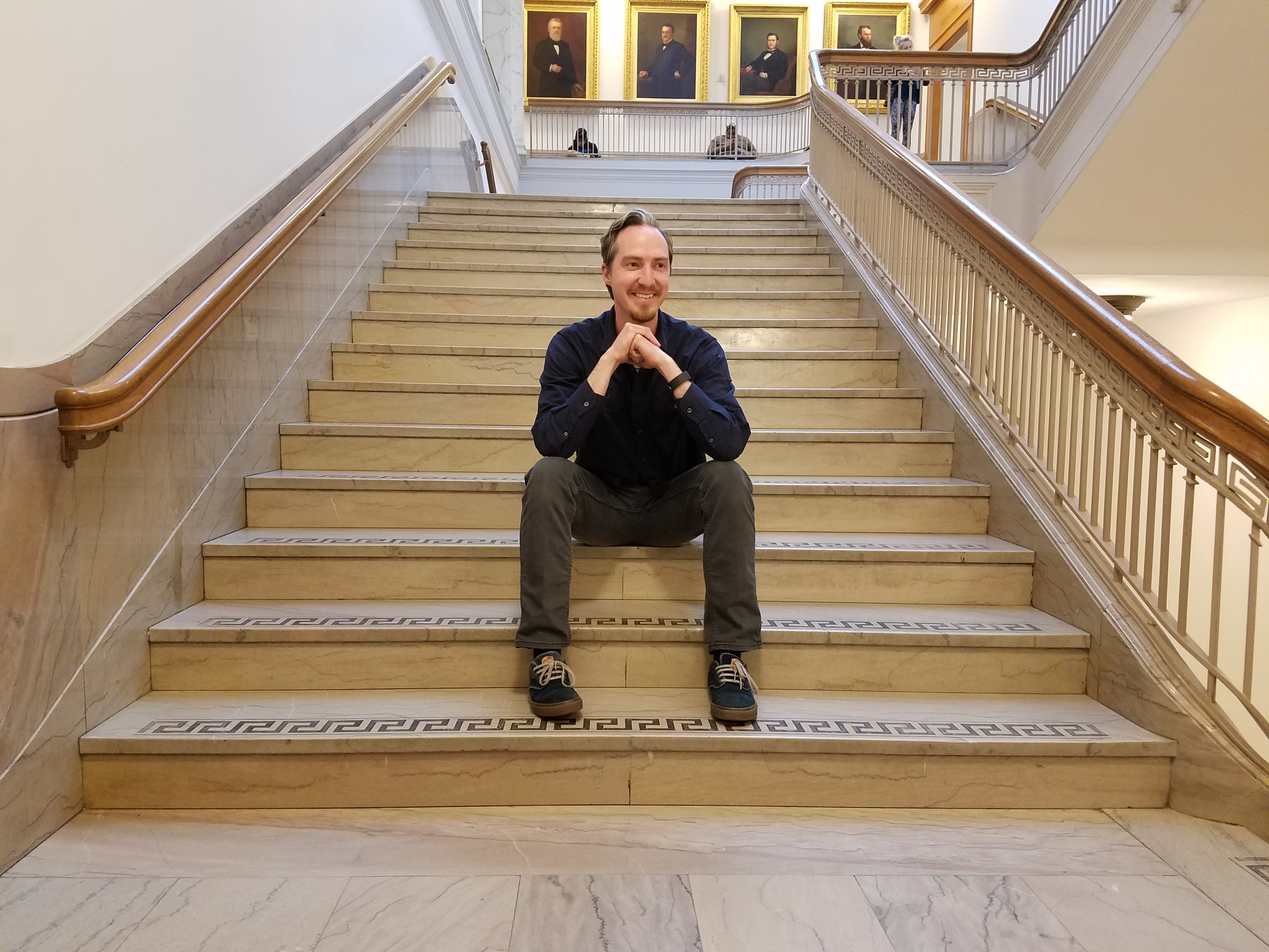
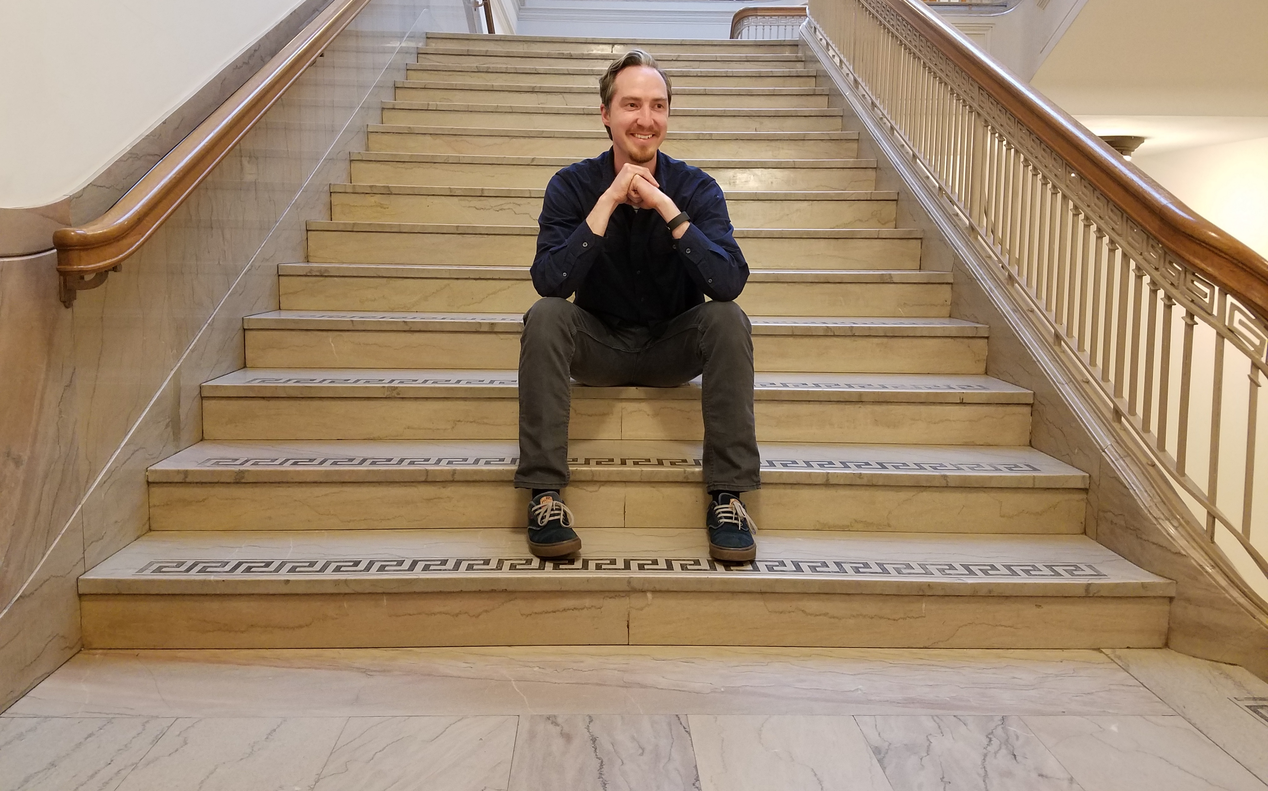
add final aboutme section styling and media queries.

diff --git a/src/components/AboutMe.jsx b/src/components/AboutMe.jsx
@@ -21,9 +21,18 @@ class AppComponent extends React.Component {
           <h1 className="aboutme-title">ABOUT ME:</h1>
           <p className="aboutme-p">To my core, I am a person who seeks ways to guide others and myself towards growth in learning.  I love web development because I enjoy taking big ideas and finding a way to symbolize them visually, interactively, and creatively. I also am passionate about open-source work and its effect for social justice and educational opportunities.</p>
           <h6 className="aboutme-h6">Code: React.js, HTML5, CSS3 w/Sass, vanilla ES6 JavaScript, jQuery, and a dabbler in Angular JS and TypeScript.  Willing to learn any and all languages (I learned te basics of React.js in three weeks.) </h6>
+{/*Hidden Contact info div until 50rem*/}
+          <div className="aboutme-hidden">
+            <h2 className="aboutme-title">CONTACT:</h2>
+            <p className="aboutme-email"><a href="mailto:baronsintrees@gmail.com"> baronsintrees@gmail.com</a></p>
+            <a href="https://github.com/kylelange" ><img src="images/github-logo.png" alt="a logo of my github repositories" className="aboutme-logo"></img></a>
+            <a href="https://www.linkedin.com/in/kyle-lange-dev/" ><img src="images/linkedin-logo.png" alt="a logo of my linkedIn account" className="aboutme-logo"></img></a>
+          {/*href link not working*/}
+            <a href='public/Lange_Resume_Apr17.pdf'><img src="images/resume-logo.png" alt="a logo of my design: representing a resume" className="aboutme-logo"></img></a>
+          </div>
         </div>
         <div className="aboutme-col2">
-          <h2 className="aboutme-title">CONTACT ME:</h2>
+          <h2 className="aboutme-title">CONTACT:</h2>
           <p className="aboutme-email"><a href="mailto:baronsintrees@gmail.com"> baronsintrees@gmail.com</a></p>
           <a href="https://github.com/kylelange" ><img src="images/github-logo.png" alt="a logo of my github repositories" className="aboutme-logo"></img></a>
           <a href="https://www.linkedin.com/in/kyle-lange-dev/" ><img src="images/linkedin-logo.png" alt="a logo of my linkedIn account" className="aboutme-logo"></img></a>

diff --git a/src/styles/AboutMe.css b/src/styles/AboutMe.css
@@ -4,11 +4,12 @@
   display: flex;
   justify-content: space-between;
   margin: 1.27rem auto;
-  background-image: url(../images/kyle-portrait.jpg);
+  background-image: url(../images/kyle-portrait2.jpg);
   filter: grayscale(70%);
   background-repeat: no-repeat;
   background-size: 81.250rem;
-  background-position-y: 60%;
+
+  background-position-y: 20%;
   background-position-x: 57%;
 }
 
@@ -19,7 +20,7 @@
 
 .aboutme-col1 {
   background-color: rgba(255, 255, 255, 0.6);
-  width: 35%;
+  width: 32%;
   height: auto;
   display: flex;
   flex-direction: column;
@@ -37,17 +38,13 @@
 
 .aboutme-col2 {
   background-color: rgba(255, 255, 255, 0.6);
-  width: 35%;
+  width: 34%;
   height: auto;
   display: flex;
   flex-direction: column;
   padding: 20px;
   align-items: center;
 }
-
-/*.aboutme-col2 h1, p{
-  color: #222;
-}*/
 
 .aboutme-col2 img {
   padding: 20px;
@@ -72,4 +69,52 @@
   width: 50px;
   height: 50px;
   align-self: center;
+}
+
+.aboutme-hidden {
+  display: none;
+}
+
+@media only screen and (max-width:66.25rem) {
+  .aboutme {
+    background-position-x: 45%;
+    background-position-y: 20%;
+  }
+  .aboutme-col2 {
+    width: 24%;
+  }
+}
+
+@media only screen and (max-width:50.5rem) {
+  .aboutme {
+    background-position-x: 30%;
+    background-position-y: 100%;
+    background-size: cover;
+  }
+  .aboutme-col1 {
+    width: 40%;
+  }
+  .aboutme-col2 {
+    display: none;
+  }
+  .aboutme-hidden {
+    display: block;
+  }
+  .aboutme-hidden a {
+    border: none;
+  }
+  .aboutme-title {
+    margin-top: 40px;
+  }
+}
+
+@media only screen and (max-width:32.2rem) {
+  .aboutme {
+    background-position-x: 41%;
+    background-position-y: 100%;
+    background-size: cover;
+  }
+  .aboutme-col1 {
+    width: 50%;
+  }
 }

diff --git a/src/styles/Projects.css b/src/styles/Projects.css
@@ -84,9 +84,9 @@
   right: 2.813rem;
 }
 
-@media only screen and (max-width:75rem) {
+/*@media only screen and (max-width:75rem) {
 
-}
+}*/
 
 @media only screen and (max-width:66.25rem) {
   .project-flex {
